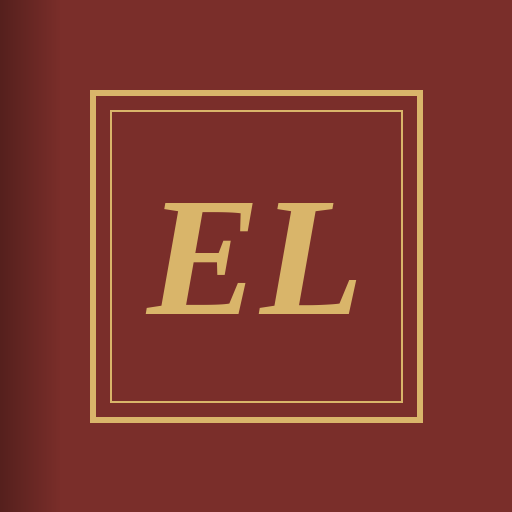
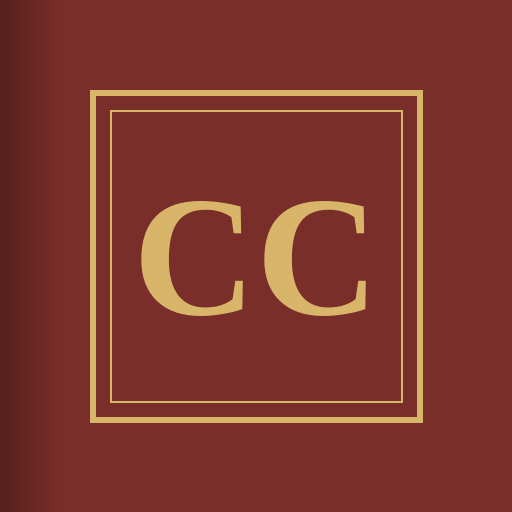
Rename the app to The Codex Club
Claude-Session: https://claude.ai/code/session_01172B7BEM4PkkwNwRjsbTsV

Changed region(s): [[0.25, 0.375, 0.7188, 0.625], [0.625, 0.375, 0.7188, 0.4688], [0.375, 0.5938, 0.4688, 0.625]]

diff --git a/sw.js b/sw.js
@@ -1,4 +1,4 @@
-const CACHE = "exlibris-2026-11-07";
+const CACHE = "codexclub-2026-11-07";
 const ASSETS = ["./", "index.html", "data.json", "manifest.webmanifest", "icon-192.png", "icon-512.png", "covers/a-clash-of-kings.webp", "covers/a-court-of-frost-and-starlight.webp", "covers/a-court-of-mist-and-fury.webp", "covers/a-court-of-silver-flames.webp", "covers/a-court-of-thorns-and-roses.webp", "covers/a-court-of-wings-and-ruin.webp", "covers/a-dance-with-dragons.webp", "covers/a-feast-for-crows.webp", "covers/a-game-of-thrones.webp", "covers/a-knight-of-the-seven-kingdoms.webp", "covers/a-storm-of-swords.webp", "covers/a-tale-of-two-cities.webp", "covers/around-the-world-in-eighty-days.webp", "covers/assassins-creed-1.webp", "covers/assassins-creed-2.webp", "covers/assassins-creed-3.webp", "covers/assassins-creed-4.webp", "covers/assassins-creed-5.webp", "covers/assassins-creed-6.webp", "covers/assassins-creed-7.webp", "covers/assassins-creed-8.webp", "covers/brisingr.webp", "covers/crown-of-midnight.webp", "covers/das-boot.webp", "covers/don-quixote.webp", "covers/dragonflight.webp", "covers/dubliners.webp", "covers/dune.webp", "covers/eldest.webp", "covers/empire-of-storms.webp", "covers/eragon.webp", "covers/fire-and-blood.webp", "covers/harry-potter-1.webp", "covers/harry-potter-2.webp", "covers/harry-potter-3.webp", "covers/harry-potter-4.webp", "covers/harry-potter-5.webp", "covers/harry-potter-6.webp", "covers/harry-potter-7.webp", "covers/harry-potter-cursed-child.webp", "covers/heir-of-fire.webp", "covers/how-to-hide-an-empire.webp", "covers/i-tre-moschettieri.webp", "covers/il-corsaro-nero.webp", "covers/il-principe.webp", "covers/iliad.webp", "covers/inferno.webp", "covers/inheritance.webp", "covers/jekyll-and-hyde.webp", "covers/jolanda-la-figlia-del-corsaro-nero.webp", "covers/kingdom-of-ash.webp", "covers/l-arte-della-guerra.webp", "covers/l-ultima-legione.webp", "covers/l-ultimo-nemico.webp", "covers/la-battaglia-di-qadesh.webp", "covers/la-coscienza-di-zeno.webp", "covers/la-dimora-millenaria.webp", "covers/la-grande-storia-della-prima-guerra-mondiale.webp", "covers/la-regina-di-abu-simbel.webp", "covers/le-tigri-di-mompracem.webp", "covers/lean-analytics.webp", "covers/leviathan-wakes.webp", "covers/lo-scudo-di-talos.webp", "covers/murtagh.webp", "covers/nineteen-eighty-four.webp", "covers/odyssey.webp", "covers/orlando-furioso.webp", "covers/overthrow.webp", "covers/paradiso.webp", "covers/purgatorio.webp", "covers/queen-of-shadows.webp", "covers/rainbow-six.webp", "covers/red-storm-rising.webp", "covers/robin-hood.webp", "covers/strangers-on-a-bridge.webp", "covers/the-assassins-blade.webp", "covers/the-atlas-six.webp", "covers/the-battle-of-the-labyrinth.webp", "covers/the-culture-of-narcissism.webp", "covers/the-fellowship-of-the-ring.webp", "covers/the-golden-compass.webp", "covers/the-great-gatsby.webp", "covers/the-green-mile.webp", "covers/the-hammer-of-thor.webp", "covers/the-hobbit.webp", "covers/the-hunt-for-red-october.webp", "covers/the-jakarta-method.webp", "covers/the-last-olympian.webp", "covers/the-lightning-thief.webp", "covers/the-longest-day.webp", "covers/the-man-in-the-high-castle.webp", "covers/the-mark-of-zorro.webp", "covers/the-picture-of-dorian-gray.webp", "covers/the-return-of-the-king.webp", "covers/the-sea-of-monsters.webp", "covers/the-ship-of-the-dead.webp", "covers/the-silmarillion.webp", "covers/the-sword-of-summer.webp", "covers/the-titans-curse.webp", "covers/the-two-towers.webp", "covers/throne-of-glass.webp", "covers/tower-of-dawn.webp", "covers/vanderbilt.webp", "covers/ventimila-leghe-sotto-i-mari.webp", "covers/war-and-peace.webp", "covers/white-fang.webp", "covers/windhaven.webp", "covers/without-remorse.webp"];
 self.addEventListener("install", e => { e.waitUntil(caches.open(CACHE).then(c => c.addAll(ASSETS)).then(() => self.skipWaiting())); });
 self.addEventListener("activate", e => { e.waitUntil(caches.keys().then(ks => Promise.all(ks.filter(k => k !== CACHE).map(k => caches.delete(k)))).then(() => self.clients.claim())); });

diff --git a/index.html b/index.html
@@ -8,8 +8,8 @@
 <meta name="apple-mobile-web-app-capable" content="yes">
 <meta name="mobile-web-app-capable" content="yes">
 <meta name="apple-mobile-web-app-status-bar-style" content="default">
-<meta name="apple-mobile-web-app-title" content="Ex Libris">
-<title>Ex Libris</title>
+<meta name="apple-mobile-web-app-title" content="Codex Club">
+<title>The Codex Club</title>
 <link rel="manifest" href="manifest.webmanifest">
 <link rel="apple-touch-icon" href="icon-192.png">
 <link rel="preconnect" href="https://fonts.googleapis.com">
@@ -358,7 +358,7 @@ function renderLibrary() {
   const forMe = sugs.filter(s => DB.mode === "local" ? true : s.to === meUid()).length;
   const mine = meUid() && profiles[meUid()];
   mount(
-    h("header", { class: "titlepage" }, h("div", { class: "kicker" }, "Ex Libris"), h("h1", {}, "The Family Library"), h("p", {}, list.length ? "Choose a volume to open it" : "Add the first reader to begin")),
+    h("header", { class: "titlepage" }, h("div", { class: "kicker" }, "Ex Libris"), h("h1", {}, "The Codex Club"), h("p", {}, list.length ? "Choose a volume to open it" : "Add the first reader to begin")),
     h("div", { class: "case" }, h("div", { class: "spines" }, spines), h("div", { class: "plank" })),
     h("div", { class: "cards" },
       h("button", { class: "card", onclick: () => go("/letters") }, h("h2", {}, "Letters ", forMe ? h("span", { class: "badge" }, forMe) : null), h("div", { class: "muted" }, "Suggest books to each other and send the good ones straight to a wishlist.")),
@@ -612,7 +612,7 @@ function renderAuth() {
   const errs = { "auth/invalid-credential": "Wrong email or password.", "auth/email-already-in-use": "That email already has an account, sign in instead.", "auth/weak-password": "Use at least 6 characters.", "auth/invalid-email": "That email does not look right.", "auth/network-request-failed": "No internet connection." };
   const submit = async e => { e.preventDefault(); btn.disabled = true; msg.textContent = mode === "in" ? "Signing in" : "Creating your account"; try { await (mode === "in" ? DB.signIn : DB.signUp)(email.value.trim(), pass.value); } catch (err) { msg.textContent = errs[err.code] || "Could not sign in: " + err.code; } btn.disabled = false; };
   mount(
-    h("header", { class: "titlepage" }, h("div", { class: "kicker" }, "Ex Libris"), h("h1", {}, "The Family Library"), h("p", {}, "Sign in to open your shelf")),
+    h("header", { class: "titlepage" }, h("div", { class: "kicker" }, "Ex Libris"), h("h1", {}, "The Codex Club"), h("p", {}, "Sign in to open your shelf")),
     h("div", { class: "fleuron" }, "❦"),
     h("form", { class: "auth", onsubmit: submit }, h("label", { class: "field" }, "Email", email), h("label", { class: "field" }, "Password", pass), btn, swap, msg,
       h("button", { class: "btn ghost", type: "button", onclick: async () => { if (!email.value) { msg.textContent = "Type your email first."; return; } try { await DB.reset(email.value.trim()); msg.textContent = "Check your inbox for a reset link."; } catch (err) { msg.textContent = errs[err.code] || err.code; } } }, "Forgot password"))
